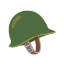
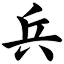
Update newsanguo source code to 0.2.15

diff --git a/Scripts/Events/chenliu_mess_hall.cs b/Scripts/Events/chenliu_mess_hall.cs
@@ -1,4 +1,4 @@
-using System.Collections.Generic;
+using System.Collections.Generic;
 using System.Threading.Tasks;
 using MegaCrit.Sts2.Core.Commands;
 using MegaCrit.Sts2.Core.Entities.Cards;
@@ -18,7 +18,7 @@ namespace newsanguo.Scripts.Events;
 /// 陈留大食堂（第一幕事件）：
 /// 选项1：回复最大生命值的1/3（描述中用动态变量显示具体数值）；
 /// 选项2：最大生命值+5；
-/// 选项3：将一张原版诅咒「悔恨」加入牌组，并获得一件随机遗物。
+/// 选项3：将一张诅咒「饥饿」加入牌组，并获得一件随机遗物。
 /// </summary>
 // 任意一幕均可遇到：第一幕可能是 Underdocks 或 Overgrowth，第二幕 Hive，第三幕 Glory
 [RegisterActEvent(typeof(Underdocks))]
@@ -56,7 +56,7 @@ public class chenliu_mess_hall : ModEventTemplate
         [
             new EventOption(this, HealThird, InitialOptionKey("HEAL_THIRD")),
             new EventOption(this, GainMaxHp, InitialOptionKey("GAIN_MAX_HP")),
-            new EventOption(this, RegretAndRelic, InitialOptionKey("REGRET_RELIC"), HoverTipFactory.FromCardWithCardHoverTips<Regret>())
+            new EventOption(this, HungryAndRelic, InitialOptionKey("HUNGRY_RELIC"), HoverTipFactory.FromCardWithCardHoverTips<Hungry>())
         ];
     }
 
@@ -76,16 +76,16 @@ public class chenliu_mess_hall : ModEventTemplate
         SetEventFinished(PageDescription("GAIN_MAX_HP"));
     }
 
-    private async Task RegretAndRelic()
+    private async Task HungryAndRelic()
     {
         // 对应 FMOD 事件 event:/newsanguo/sfx/chenliu_mess_hall_relic
         NewsanguoSfx.Play("event:/newsanguo/sfx/chenliu_mess_hall_relic");
-        // 将一张原版诅咒「悔恨」加入牌组
-        CardModel regret = Owner!.RunState.CreateCard<Regret>(Owner);
-        CardCmd.PreviewCardPileAdd(await CardPileCmd.Add(regret, PileType.Deck));
+        // 将一张诅咒「饥饿」加入牌组
+        CardModel hungry = Owner!.RunState.CreateCard<Hungry>(Owner);
+        CardCmd.PreviewCardPileAdd(await CardPileCmd.Add(hungry, PileType.Deck));
         // 获得一件随机遗物：按标准稀有度概率抽取，本局不会重复出现同一件
         RelicModel relic = RelicFactory.PullNextRelicFromFront(Owner).ToMutable();
         await RelicCmd.Obtain(relic, Owner);
-        SetEventFinished(PageDescription("REGRET_RELIC"));
+        SetEventFinished(PageDescription("HUNGRY_RELIC"));
     }
 }

diff --git a/Scripts/Cards/Hungry.cs b/Scripts/Cards/Hungry.cs
@@ -1,0 +1,46 @@
+using System.Collections.Generic;
+using System.Threading.Tasks;
+using MegaCrit.Sts2.Core.Commands;
+using MegaCrit.Sts2.Core.Entities.Cards;
+using MegaCrit.Sts2.Core.Entities.Players;
+using MegaCrit.Sts2.Core.GameActions.Multiplayer;
+using MegaCrit.Sts2.Core.Models.CardPools;
+using MegaCrit.Sts2.Core.Models.Cards;
+using MegaCrit.Sts2.Core.Models.Powers;
+using STS2RitsuLib.Interop.AutoRegistration;
+using STS2RitsuLib.Scaffolding.Content;
+
+using newsanguo.Scripts.Cards;
+using newsanguo.Scripts.Characters;
+
+namespace newsanguo.Scripts;
+
+// 注册到诅咒卡池（与其他诅咒牌一起，可供诅咒奖励/事件获取）
+[RegisterCard(typeof(CurseCardPool))]
+public class Hungry : NewsanguoCurseTemplate
+{
+    // 卡图资源
+    public override CardAssetProfile AssetProfile => new(
+        PortraitPath: $"res://newsanguo/images/cards/{GetType().Name}.png"
+    );
+
+    // 关键词：虚无（回合结束若在手牌则自行消耗）+ 不可打出（对应文本由引擎自动追加）
+    public override IEnumerable<CardKeyword> CanonicalKeywords => [CardKeyword.Ethereal, CardKeyword.Unplayable];
+
+    // 回合结束时若这张牌在手牌中，引擎会调用 OnTurnEndInHand
+    public override bool HasTurnEndInHandEffect => true;
+
+    public Hungry() : base(-1)
+    {
+    }
+
+    // 回合结束时：这张牌若在手牌中，你下个回合少抽1张牌
+    protected override async Task OnTurnEndInHand(PlayerChoiceContext choiceContext)
+    {
+        // 播放出牌音效
+        NewsanguoSfx.Play("event:/newsanguo/sfx/hungry");
+        
+        // 原版“下回合抽牌”能力支持负层数：-1 即下回合少抽1张（随后因“虚无”自行消耗）
+        await PowerCmd.Apply<DrawCardsNextTurnPower>(choiceContext, base.Owner.Creature, -1, base.Owner.Creature, this);
+    }
+}

diff --git a/Scripts/Cards/HeavensDecay.cs b/Scripts/Cards/HeavensDecay.cs
@@ -17,22 +17,12 @@ namespace newsanguo.Scripts;
 
 // 注册到诅咒卡池（与其他诅咒牌一起，可供诅咒奖励/事件获取）
 [RegisterCard(typeof(CurseCardPool))]
-public class HeavensDecay : NewsanguoCardTemplate
+public class HeavensDecay : NewsanguoCurseTemplate
 {
-
     // 卡图资源
     public override CardAssetProfile AssetProfile => new(
         PortraitPath: $"res://newsanguo/images/cards/{GetType().Name}.png"
     );
-
-    // 诅咒牌不能升级
-    public override int MaxUpgradeLevel => 0;
-
-    // 诅咒牌不参与 modifiers（事件/遗物等）随机生成
-    public override bool CanBeGeneratedByModifiers => false;
-
-    // 不参与战斗内随机生成（避免污染发现类效果）
-    public override bool CanBeGeneratedInCombat => false;
 
     // 关键词：永恒（描述后自动追加“永恒。”）；可打出，不再有“不可打出”词条
     public override IEnumerable<CardKeyword> CanonicalKeywords => [CardKeyword.Eternal];
@@ -40,7 +30,7 @@ public class HeavensDecay : NewsanguoCardTemplate
     // 回合结束时若这张牌在手牌中，引擎会调用 OnTurnEndInHand
     public override bool HasTurnEndInHandEffect => true;
 
-    public HeavensDecay() : base(2, CardType.Curse, CardRarity.Curse, TargetType.None)
+    public HeavensDecay() : base(2)
     {
     }
 

diff --git a/Scripts/Powers/ImGettingDrunkPower.cs b/Scripts/Powers/ImGettingDrunkPower.cs
@@ -29,8 +29,8 @@ public class ImGettingDrunkPower : ModPowerTemplate
 
     // 能力图标资源：暂复用“酒力”图标（待生效的是酒力与禁攻），如需专属图标替换这两处路径即可
     public override PowerAssetProfile AssetProfile => new(
-        IconPath: "res://newsanguo/images/powers/DrunkenMightPower.png",
-        BigIconPath: "res://newsanguo/images/powers/DrunkenMightPower_big.png"
+        IconPath: "res://newsanguo/images/powers/ImGettingDrunkPower.png",
+        BigIconPath: "res://newsanguo/images/powers/ImGettingDrunkPower_big.png"
     );
 
     // 玩家回合开始：发放酒力、施加“止戈”，随后移除自身
@@ -40,6 +40,9 @@ public class ImGettingDrunkPower : ModPowerTemplate
         {
             return;
         }
+
+        // 触发音效
+        NewsanguoSfx.Play("event:/newsanguo/sfx/im_getting_drunk_power");
 
         // 发放酒力
         await PowerCmd.Apply<DrunkenMightPower>(

diff --git a/Scripts/Cards/NewsanguoCurseTemplate.cs b/Scripts/Cards/NewsanguoCurseTemplate.cs
@@ -1,0 +1,25 @@
+using System.Collections.Generic;
+using MegaCrit.Sts2.Core.Entities.Cards;
+
+namespace newsanguo.Scripts.Cards;
+
+/// <summary>
+/// 新三国诅咒牌的统一基类
+/// 统一约定：诅咒类型/稀有度/无目标、不可升级、不可被 modifiers随机生成、
+/// 子类仍需自行：加 [RegisterCard(typeof(CurseCardPool))]、在构造函数传费用、
+/// 定义 CanonicalKeywords 与回合末触发等专属机制。
+/// </summary>
+public abstract class NewsanguoCurseTemplate : NewsanguoCardTemplate
+{
+    protected NewsanguoCurseTemplate(int energyCost)
+        : base(energyCost, CardType.Curse, CardRarity.Curse, TargetType.None)
+    {
+    }
+
+    // 诅咒牌不能升级
+    public override int MaxUpgradeLevel => 0;
+
+    // 诅咒牌不参与 modifiers（事件/遗物等）随机生成
+    public override bool CanBeGeneratedByModifiers => false;
+
+}

diff --git a/Scripts/NewsanguoSfx.cs b/Scripts/NewsanguoSfx.cs
@@ -104,6 +104,7 @@ public static class NewsanguoSfx
         ["heavens_force_decay"] = 2f,
         ["human_transmutation_spell"] = -3f,
         ["im_getting_drunk"] = 1.5f,
+        ["im_getting_drunk_power"] = 1.5f,
         ["intoxicated"] = 7f,
         ["invincible"] = -1.5f,
         ["invoke_heaven"] = -3.5f,
